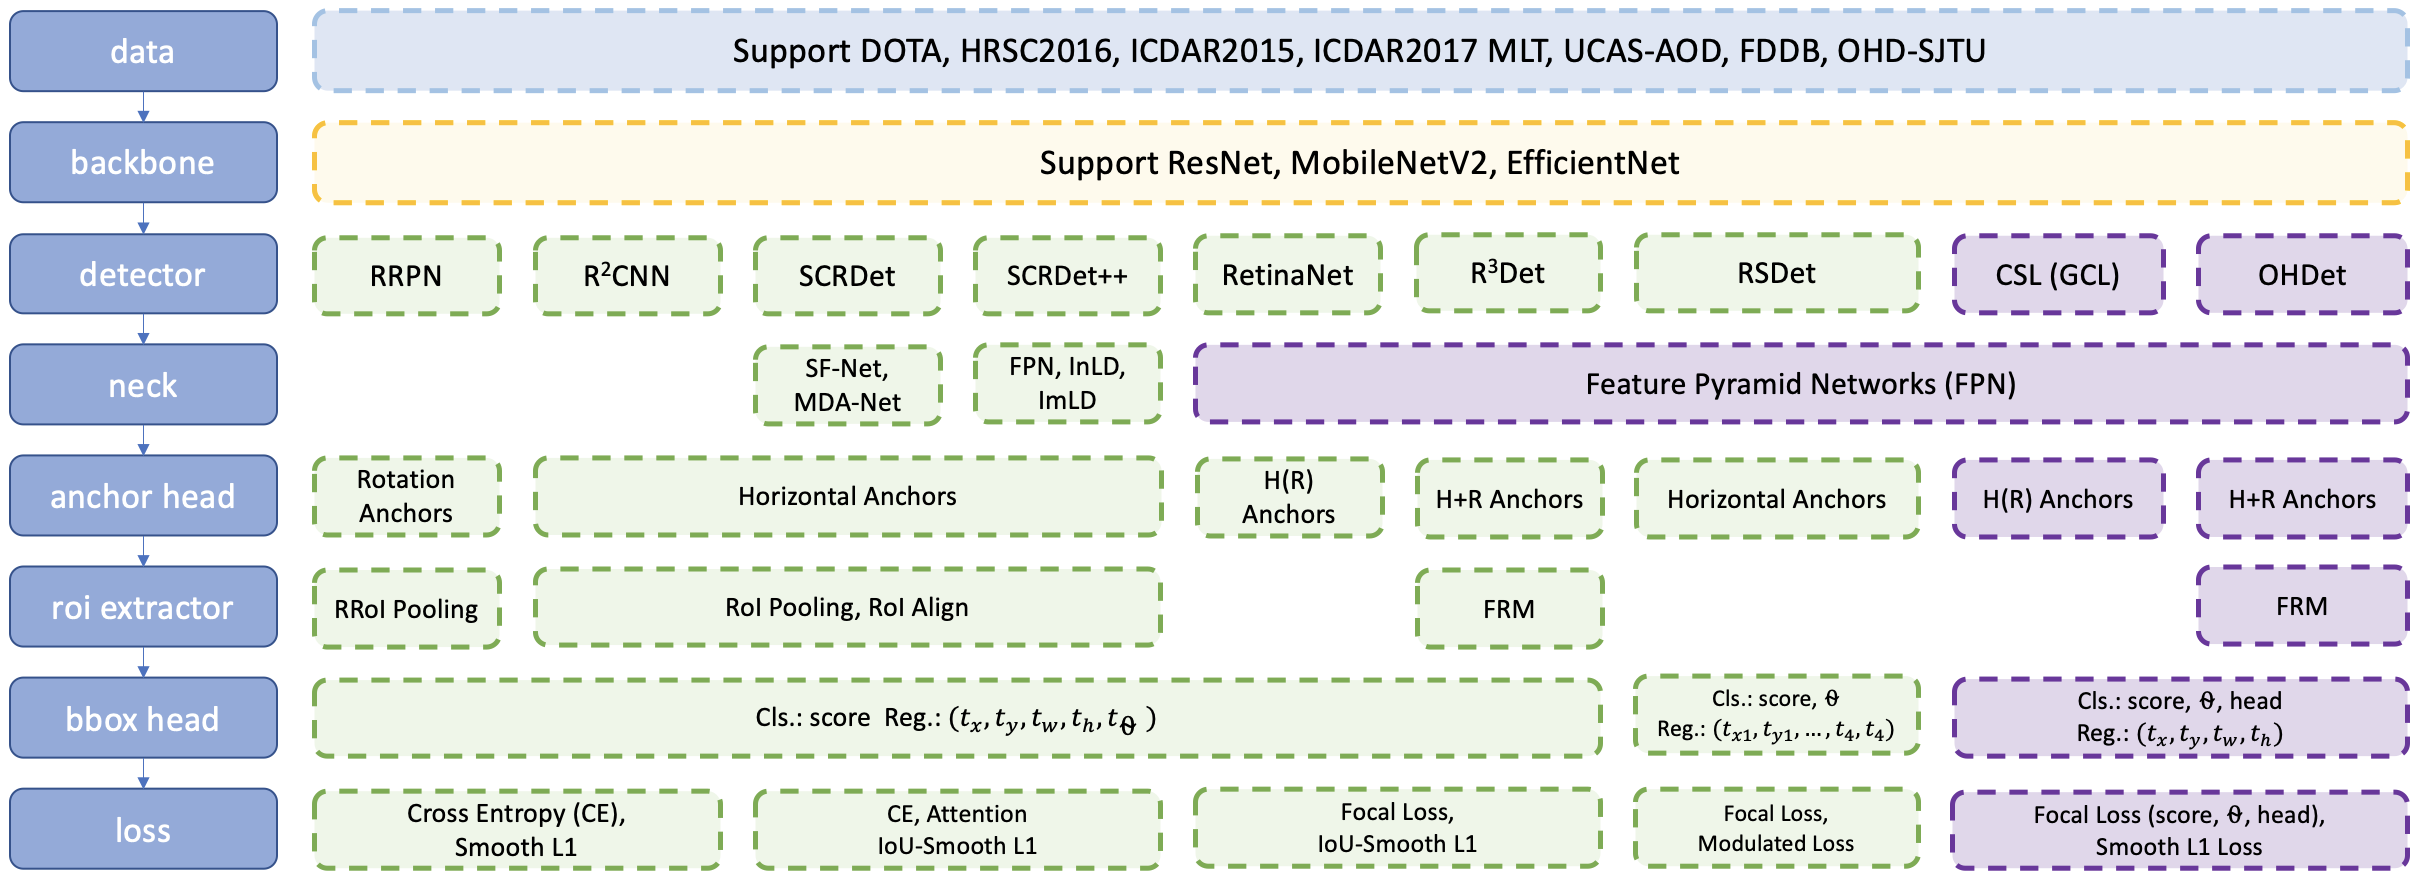
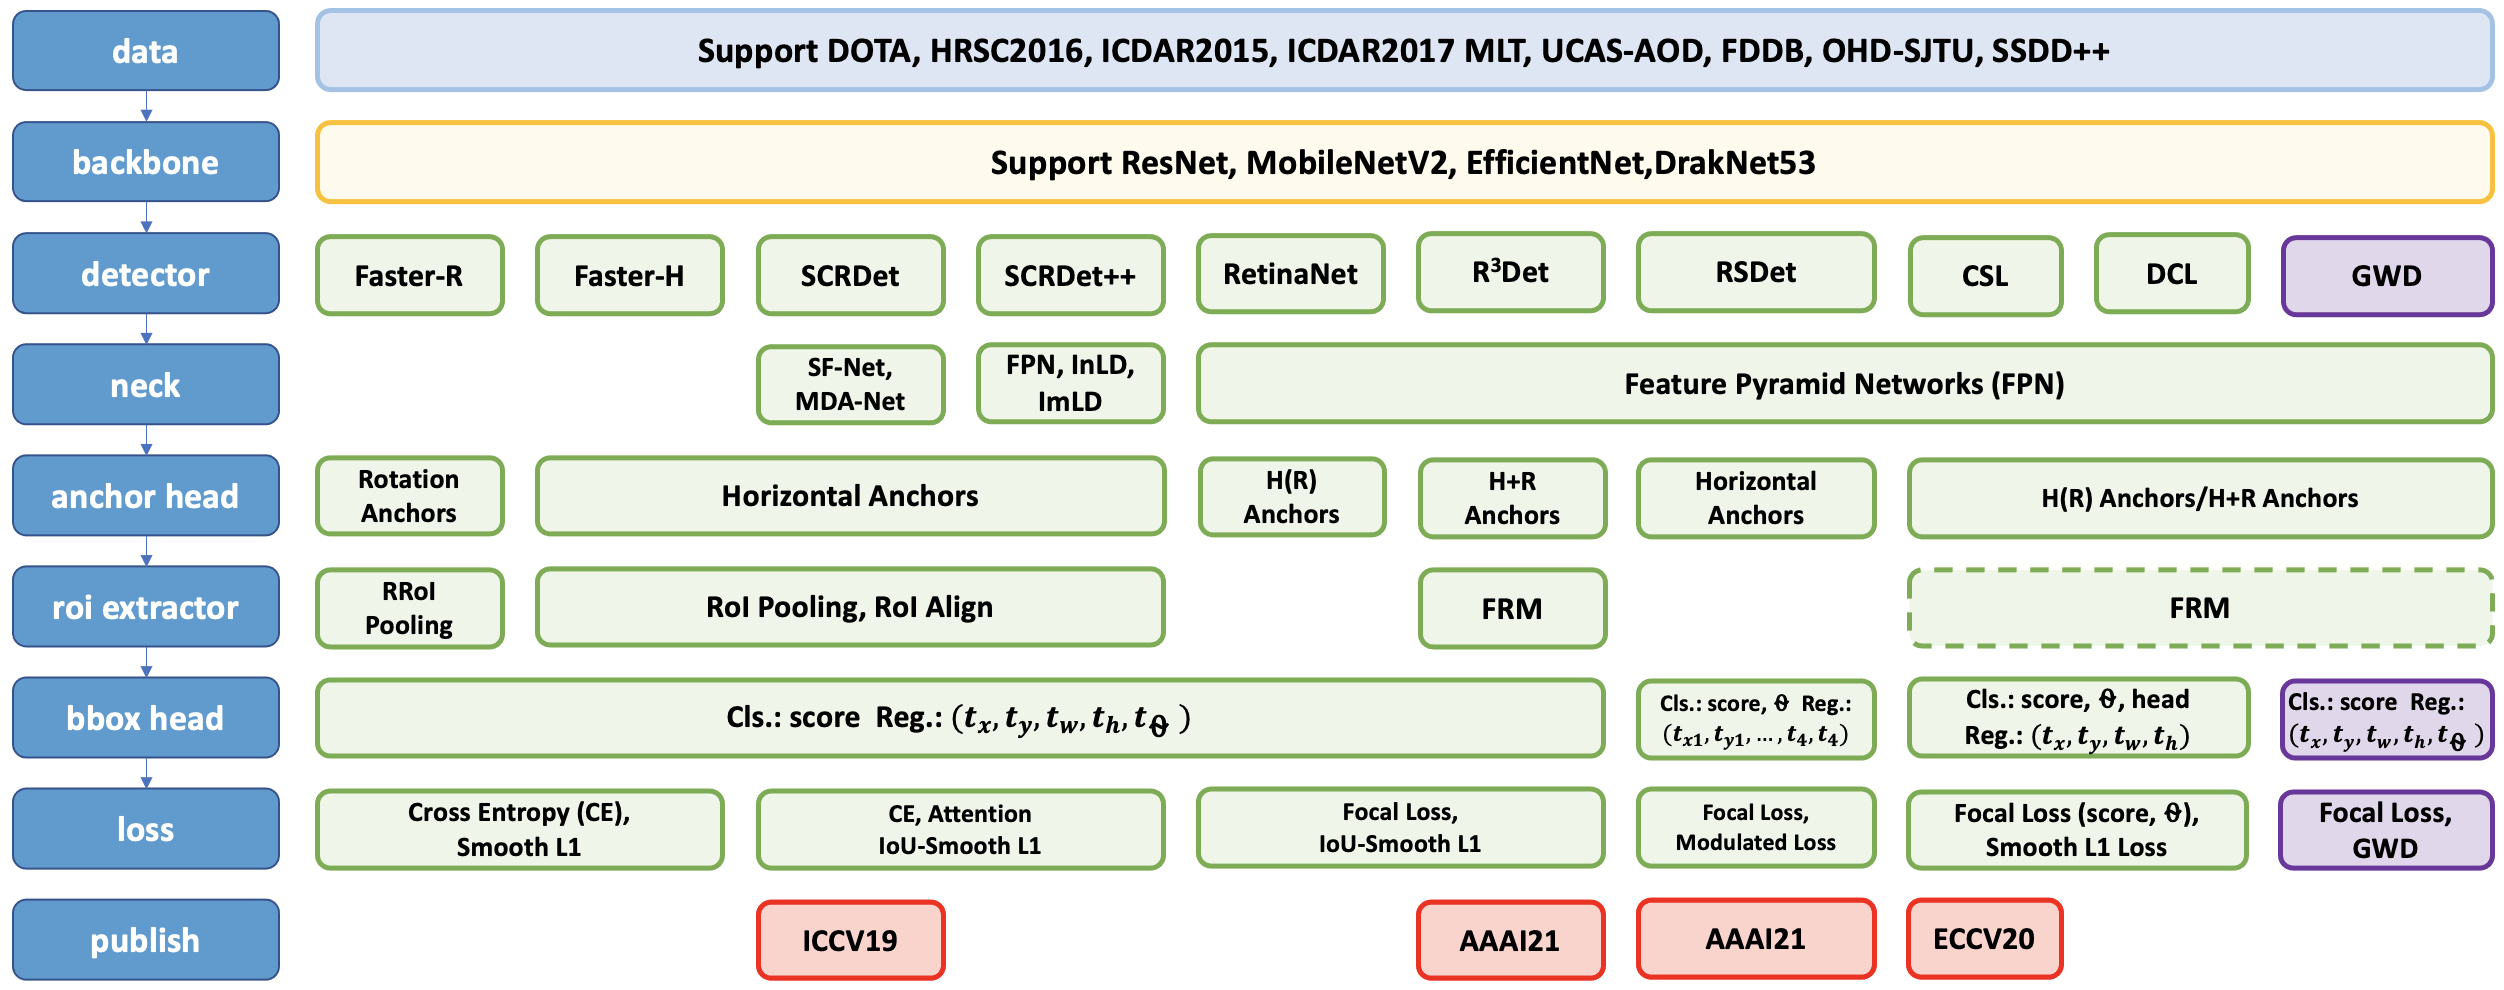
update project

diff --git a/README.md b/README.md
@@ -23,6 +23,7 @@ Techniques:
   - [x] [R<sup>3</sup>Det **(AAAI21)**](https://arxiv.org/abs/1908.05612): [TF code](https://github.com/Thinklab-SJTU/R3Det_Tensorflow), [Pytorch code](https://github.com/SJTU-Thinklab-Det/r3det-on-mmdetection)
   - [x] [Circular Smooth Label (CSL, **ECCV20**)](https://arxiv.org/abs/2003.05597): [TF code](https://github.com/Thinklab-SJTU/CSL_RetinaNet_Tensorflow)
   - [x] [Densely Coded Label (DCL)](https://arxiv.org/abs/2011.09670): [TF code](https://github.com/Thinklab-SJTU/DCL_RetinaNet_Tensorflow)
+  - [ ] [GWD](): coming soon! 
   - [x] Mixed method: R<sup>3</sup>Det-DCL
 - [x] Loss: CE, [Focal Loss](https://arxiv.org/abs/1708.02002), [Smooth L1 Loss](https://arxiv.org/abs/1504.08083), [IoU-Smooth L1 Loss](https://arxiv.org/abs/1811.07126), [Modulated Loss](https://arxiv.org/abs/1911.08299)
 
@@ -45,6 +46,7 @@ More results and trained models are available in the [MODEL_ZOO.md](MODEL_ZOO.md
 | [RSDet](https://arxiv.org/pdf/1911.08299) | FPN | ResNet50_v1d 600->800 | DOTA1.0 trainval/test | 67.27 | [Baidu Drive (6nt5)](https://pan.baidu.com/s/1-4iXqRMvCOIEtrMFwtXyew) | H | Reg. | modulated loss | - | × | [cfgs_res50_dota_rsdet_v2.py](./libs/configs/DOTA/rsdet/cfgs_res50_dota_rsdet_v2.py) |
 | [CSL](https://arxiv.org/abs/2003.05597) | FPN | ResNet50_v1d 600->800 | DOTA1.0 trainval/test | 67.38 | [Baidu Drive (g3wt)](https://pan.baidu.com/s/1nrIs-oYA53qQzlPjqYkMJQ) | H | **Cls.: Gaussian (r=1, w=10)** | smooth L1 | 180 | x | [cfgs_res50_dota_v45.py](./libs/configs/DOTA/csl/cfgs_res50_dota_v45.py) |
 | [DCL](https://arxiv.org/abs/2011.09670) | FPN | ResNet50_v1d 600->800 | DOTA1.0 trainval/test | 67.39 | [Baidu Drive (p9tu)](https://pan.baidu.com/s/1TZ9V0lTTQnMhiepxK1mdqg) | H | **Cls.: BCL (w=180/256)** | smooth L1 | 180 | × | [cfgs_res50_dota_dcl_v5.py](./libs/configs/DOTA/dcl/cfgs_res50_dota_dcl_v5.py) |
+| GWD | FPN | ResNet50_v1d 600->800 | DOTA1.0 trainval/test | 68.93 | coming soon! | - | - |  |  | × | - |
 | [R<sup>3</sup>Det](https://arxiv.org/abs/1908.05612) | FPN | ResNet50_v1d 600->800 | DOTA1.0 trainval/test | 70.66 | [Baidu Drive (30lt)](https://pan.baidu.com/s/143sGeLNjXzcpxi9GV7FVyA) | H->R | Reg. | smooth L1 | 90 | × | [cfgs_res50_dota_r3det_v1.py](./libs/configs/DOTA/r3det/cfgs_res50_dota_r3det_v1.py) |
 | **[R<sup>3</sup>Det-DCL](https://arxiv.org/abs/2011.09670)** | FPN | ResNet50_v1d 600->800 | DOTA1.0 trainval/test | 71.21 | [Baidu Drive (jueq)](https://pan.baidu.com/s/1XR31i3T-C5R16giBxQUNWw) | H->R | **Cls.: BCL (w=180/256)** | iou-smooth L1 | 90->180 | × | [cfgs_res50_dota_r3det_dcl_v1.py](./libs/configs/DOTA/r3det_dcl/cfgs_res50_dota_r3det_dcl_v1.py) |
 | [R<sup>2</sup>CNN (Faster-RCNN)](https://arxiv.org/abs/1706.09579) | FPN | ResNet50_v1d 600->800 | DOTA1.0 trainval/test | 72.27 | [Baidu Drive (wt2b)](https://pan.baidu.com/s/1R_31U2jl7gj6OMvirURnsg) | H->R | Reg. | smooth L1 | 90 | × | [cfgs_res50_dota_v1.py](./libs/configs/DOTA/r2cnn/cfgs_res50_dota_v1.py) |
